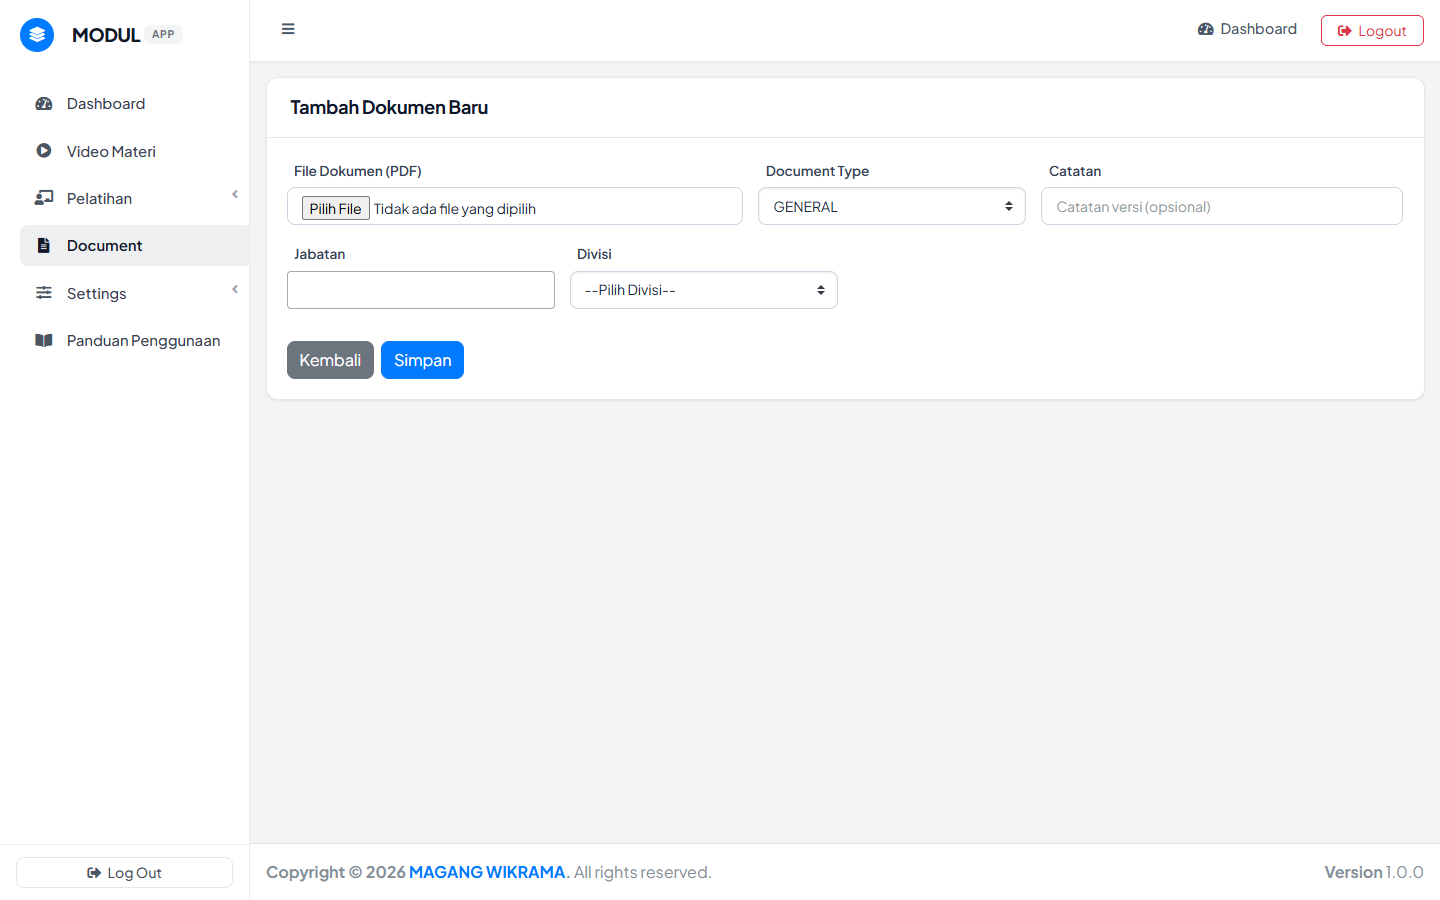
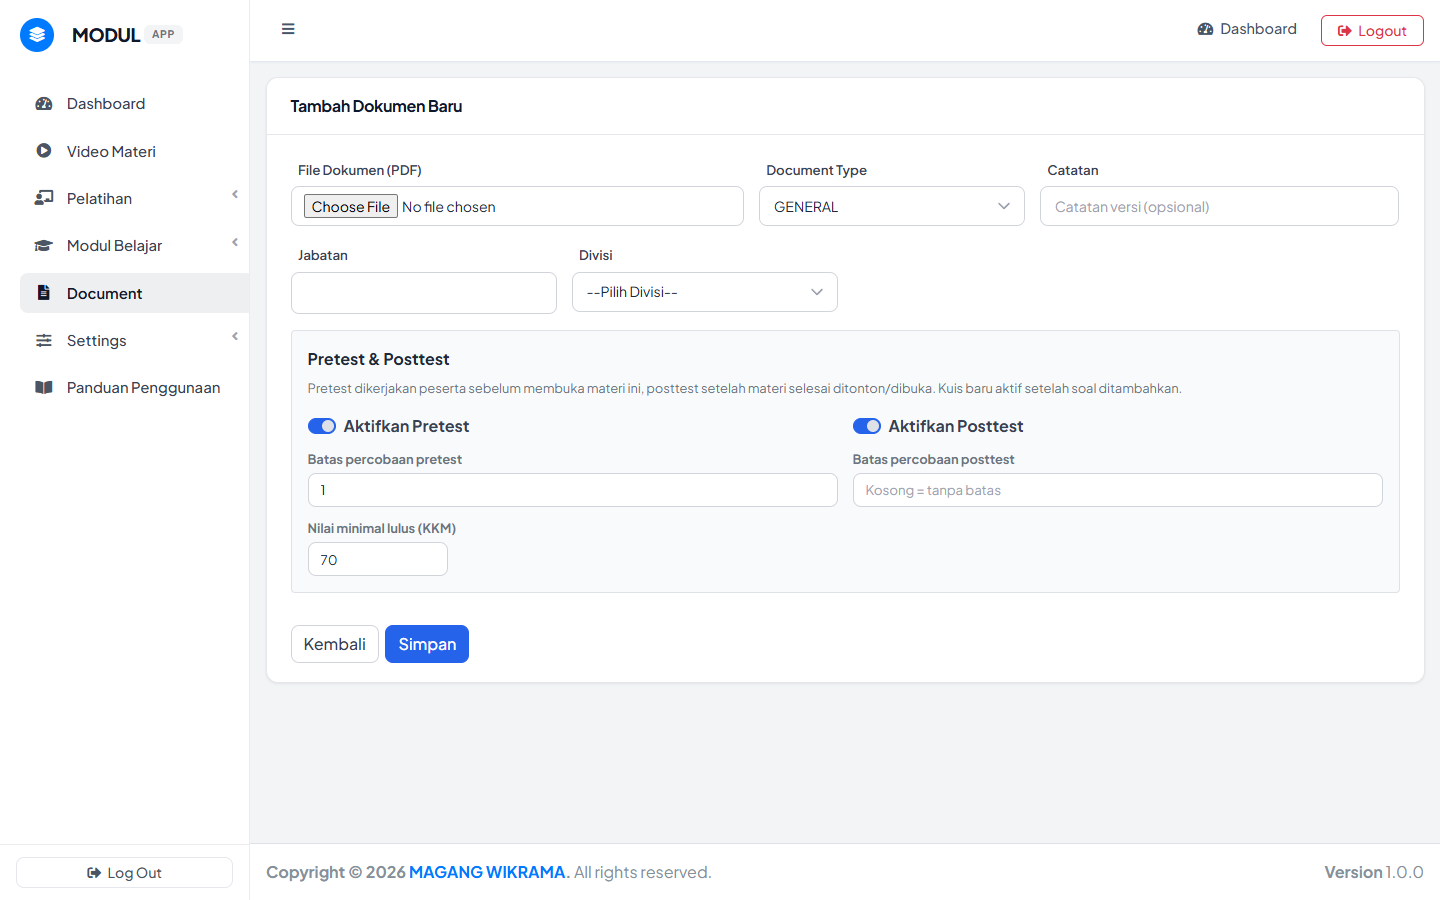
docs: add guide animations for video/document quizzes and Modul Belajar
- New GIFs: turning on pretest/posttest in the video form, pretest before
  watching a video, posttest after the video ends, opening a document quiz,
  creating a Modul Belajar, and taking a module as a participant.
- Re-take the Tambah Dokumen screenshot so it shows the Pretest & Posttest
  section.
- All recordings use dummy data from a throwaway database.

diff --git a/resources/views/panduan/index.blade.php b/resources/views/panduan/index.blade.php
@@ -405,7 +405,7 @@
                 <div class="pg-card" id="dokumen">
                     <h2>10. Dokumen</h2>
                     <p>Menu <b>Document</b> menyimpan dokumen PDF modul, lengkap dengan riwayat versi.</p>
-                    <figure class="pg-shot"><img src="/assets/panduan/document-create.png" alt="Tambah dokumen" loading="lazy"><figcaption>Form Tambah Dokumen Baru.</figcaption></figure>
+                    <figure class="pg-shot"><img src="/assets/panduan/document-create.png" alt="Tambah dokumen" loading="lazy"><figcaption>Form Tambah Dokumen Baru, termasuk bagian Pretest &amp; Posttest.</figcaption></figure>
                     <h3>Menambah dokumen</h3>
                     <ol>
                         <li>Klik <b>Tambah Dokumen</b>.</li>
@@ -423,6 +423,7 @@
                     </ul>
                     <h3>Pretest &amp; posttest pada dokumen</h3>
                     <p>Form tambah/edit dokumen memiliki bagian <b>Pretest &amp; Posttest</b> yang sama seperti video. Untuk dokumen ber-kuis, tombol <b>Buka</b> membuka halaman kuis dokumen: pretest (bila nyala) → buka dokumen → posttest (bila nyala). Bila pretest aktif, <b>semua akun</b> (termasuk admin) wajib pretest dulu; pengelola dokumen mendapat tombol <b>Pratinjau dokumen tanpa pretest</b> di halaman kuis. Dokumen yang dilampirkan ke pelatihan juga dibuka lewat halaman kuis ini dari portal peserta (perlu login). Soal dan rekap nilai ada di menu <b>Aksi → Soal Pretest/Posttest</b> dan <b>Aksi → Rekap Nilai Kuis</b>. Bila satu unggahan dibuat untuk beberapa jabatan, setiap dokumen memiliki bank soal sendiri. Tes dokumen berada di bawah menu <b>Document</b> dan tidak muncul di <b>Modul Saya</b>.</p>
+                    <figure class="pg-shot"><img src="/assets/panduan/dokumen-kuis.gif" alt="Animasi: membuka dokumen ber-kuis" loading="lazy"><figcaption>Animasi (peserta): klik <b>Buka</b> pada dokumen ber-kuis, halaman kuis dokumen menampilkan langkah Pretest → Materi → Posttest, lalu <b>Mulai Pretest</b> dan memilih jawaban. Data pada animasi hanya contoh.</figcaption></figure>
                 </div>
 
                 {{-- 11 --}}
@@ -449,6 +450,9 @@
                     <p>Video lama yang belum punya cover: buka <b>Edit</b>, klik <b>Ambil cover dari video</b>, lalu <b>Simpan Perubahan</b>. Format yang tidak bisa diputar browser (mis. sebagian file MKV) tidak bisa diambil cover-nya; pilih gambar cover manual.</p>
                     <h3>Pretest &amp; posttest pada video</h3>
                     <p>Di form tambah/edit video, bagian <b>Pretest &amp; Posttest</b> berisi tombol <b>Aktifkan Pretest</b> dan <b>Aktifkan Posttest</b>, batas percobaan masing-masing (kosong = tanpa batas), dan nilai minimal lulus. Setelah disimpan Anda diarahkan ke halaman soal; kuis baru aktif setelah ada minimal satu soal (manual, Excel, atau AI dari video itu). Tes video berada di bawah menu <b>Video Materi</b> dan tidak muncul di <b>Modul Saya</b>.</p>
+                    <figure class="pg-shot"><img src="/assets/panduan/video-kuis-atur.gif" alt="Animasi: menyalakan pretest dan posttest video" loading="lazy"><figcaption>Animasi (admin): menyalakan <b>Aktifkan Pretest</b> dan <b>Aktifkan Posttest</b>, mengisi batas percobaan posttest dan nilai minimal lulus (contoh, tidak disimpan).</figcaption></figure>
+                    <figure class="pg-shot"><img src="/assets/panduan/video-pretest.gif" alt="Animasi: pretest sebelum menonton video" loading="lazy"><figcaption>Animasi (peserta): membuka video ber-kuis dari galeri, langsung diarahkan ke pretest, mengirim jawaban, lalu <b>Lanjut Tonton Video</b>.</figcaption></figure>
+                    <figure class="pg-shot"><img src="/assets/panduan/video-posttest.gif" alt="Animasi: posttest setelah video selesai" loading="lazy"><figcaption>Animasi (peserta): menonton video sampai selesai, tombol <b>Kerjakan Posttest</b> muncul, lalu membuka posttest.</figcaption></figure>
                     <ul>
                         <li>Video ber-kuis tetap tampil di galeri, tetapi peserta wajib login untuk menontonnya.</li>
                         <li>Pretest nyala: peserta mengerjakan pretest dulu sebelum video bisa ditonton.</li>
@@ -562,6 +566,7 @@
                     <h2>16. Modul Belajar: pretest, materi &amp; posttest</h2>
                     <p>Modul Belajar adalah kuis mandiri (tanpa jadwal/Zoom) yang materinya diambil dari <b>Video Materi</b> dan <b>Dokumen</b>. Alurnya: peserta mengerjakan <b>pretest</b>, mempelajari semua materi, lalu mengerjakan <b>posttest</b>. Pretest dan posttest memakai soal yang sama dengan urutan diacak.</p>
                     <h3>Membuat modul (Admin/Pemateri)</h3>
+                    <figure class="pg-shot"><img src="/assets/panduan/modul-buat.gif" alt="Animasi: membuat modul belajar" loading="lazy"><figcaption>Animasi: mengisi judul, deskripsi, dan KKM, lalu menambahkan video dan dokumen ke <b>Materi Modul</b> (contoh, tidak disimpan).</figcaption></figure>
                     <ol>
                         <li>Buka <b>Modul Belajar → Kelola Modul</b>, klik <b>Tambah Modul</b>.</li>
                         <li>Isi judul, deskripsi, <b>Nilai Minimal Lulus (KKM)</b>, dan pilih <b>Divisi</b> / <b>Jabatan</b> sasaran (kosong = semua).</li>
@@ -571,6 +576,7 @@
                     </ol>
                     <div class="pg-note">Soal AI bisa dibuat dari dokumen dan dari video (file upload atau link YouTube publik). Link Google Drive/Vimeo tidak bisa dibaca AI. Pembacaan video memakan waktu beberapa menit; biarkan jendela AI terbuka sampai hasil muncul. Saat meninjau hasil AI, klik huruf A–E untuk menandai kunci jawaban (pilihan kunci ditandai hijau), sunting teks bila perlu, lalu simpan. Cara yang sama dipakai untuk soal pretest/posttest video dan dokumen.</div>
                     <h3>Mengerjakan modul (Peserta)</h3>
+                    <figure class="pg-shot"><img src="/assets/panduan/modul-peserta.gif" alt="Animasi: mengerjakan modul belajar" loading="lazy"><figcaption>Animasi: membuka modul dari <b>Modul Saya</b>, melihat tiga langkah (Pretest, Materi, Posttest), lalu <b>Mulai Pretest</b> dan memilih jawaban.</figcaption></figure>
                     <ol>
                         <li>Buka <b>Modul Belajar → Modul Saya</b> dan pilih modul.</li>
                         <li>Kerjakan <b>Pretest</b> (bawaan: satu kali). Materi baru terbuka setelah pretest dikirim.</li>
